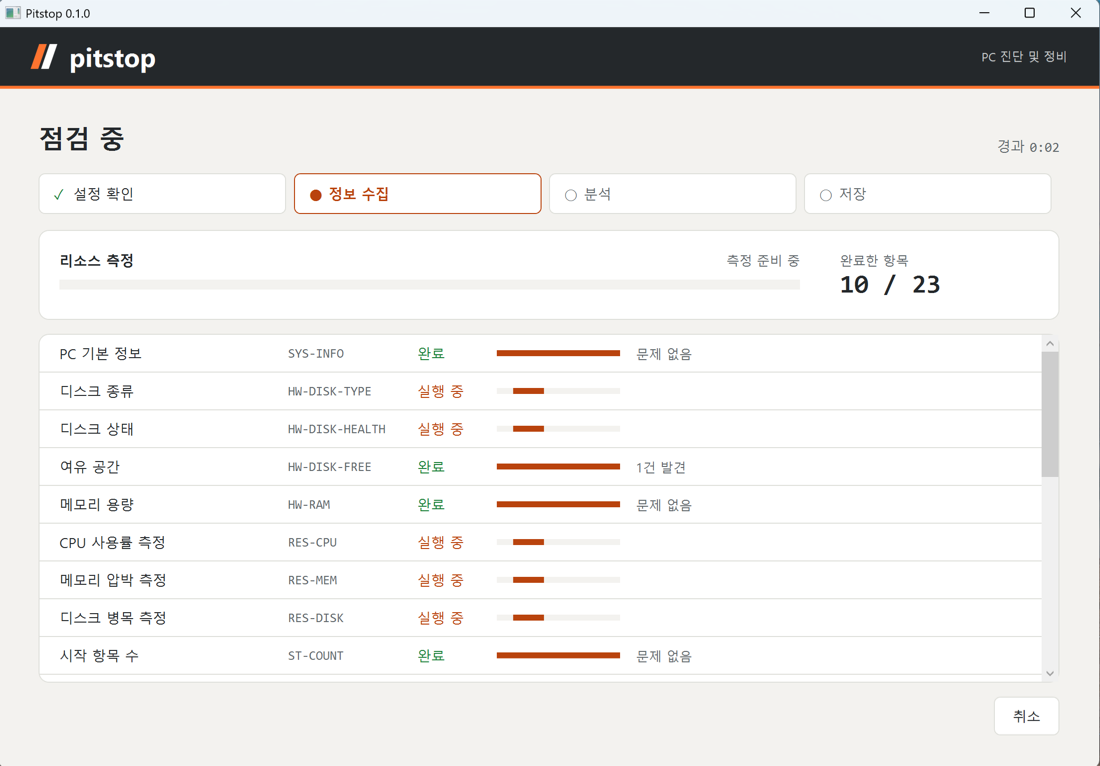
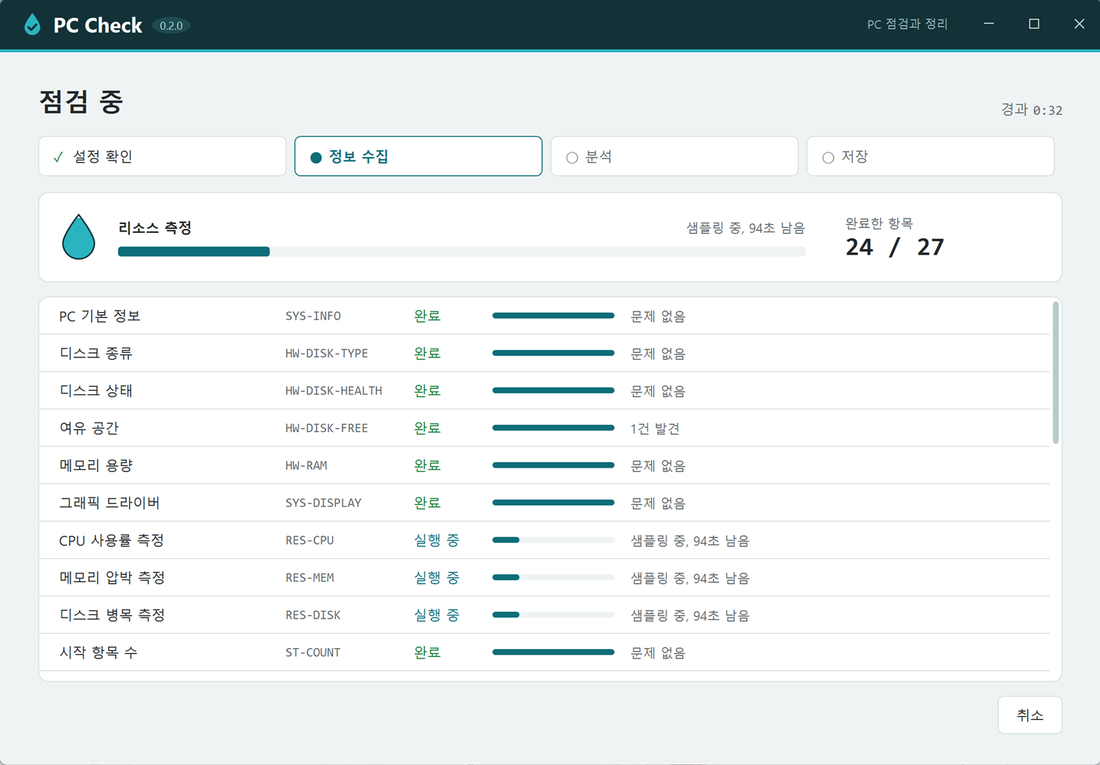
docs: 새 디자인 스크린샷과 브랜드 결정 반영

diff --git a/docs/handoff.md b/docs/handoff.md
@@ -8,6 +8,7 @@ Last updated 2026-11-09 by Claude Code. v0.1.3 is released (2026-11-07). The pro
 - GitHub repo `Bigide19/pitstop` -> `Bigide19/pc-check`: the README already points at the new name, so rename the repo (`gh repo rename pc-check`) together with merging this branch. Only on the user's order. GitHub redirects old repo URLs.
 - Local folder `~/Projects/pitstop` can be renamed after the session ends; `tools/vm/vm.sh` takes the VM share path from the folder name.
 - Scope: "PC에서 새는 곳을 찾습니다". Performance leaks (the 26 current checks), space leaks (unused-file cleanup, new), information leaks (personal-data cleanup ported from `Bigide19/windows-pc-privacy-cleaner`, net462 WPF, 46 files). Never claim data *was* leaked; say it remains or could leak.
+- Brand (2026-11-09, user picked option A of three): a teal water drop with a check (`DropGeometry` in `App.xaml`, `Views/LeakDrop.xaml`). The drop also shows state in three places only: it fills up while scanning (progress screen), shows the leak count with falling drips next to the verdict (healthy verdict = check), and turns into a plugged check after fixes. Severity stays color + text. The window uses `WindowChrome`, so the brand header is the title bar (caption buttons in `MainWindow.xaml`), and ScrollBar, TextBox, CheckBox, RadioButton, ProgressBar, ToolTip have implicit styles in `App.xaml`.
 - Stages: 1 rename (this branch) -> 2 three-leak layout with mock data -> 3 port the privacy cleaner (deletes go through `ISystemOps`) -> 4 unused-file cleanup. Show a plan before each stage.
 
 ## Stage status

diff --git a/README.md b/README.md
@@ -8,8 +8,8 @@
   <p>느려진 Windows PC를 포맷하기 전에, 정리로 충분한지부터 진단하는 도구</p>
 
   <p>
-    <a href="https://github.com/Bigide19/pc-check/releases/latest/download/pccheck-win-x64.zip"><img src="https://img.shields.io/badge/다운로드-pccheck--win--x64.zip-B9430D?style=for-the-badge&logo=windows&logoColor=white" alt="다운로드 (zip)" /></a>
-    <a href="https://github.com/Bigide19/pc-check/releases/latest/download/PcCheck.exe"><img src="https://img.shields.io/badge/exe만-PcCheck.exe-24282B?style=for-the-badge&logo=windows&logoColor=white" alt="다운로드 (exe)" /></a>
+    <a href="https://github.com/Bigide19/pc-check/releases/latest/download/pccheck-win-x64.zip"><img src="https://img.shields.io/badge/다운로드-pccheck--win--x64.zip-0E6E7A?style=for-the-badge&logo=windows&logoColor=white" alt="다운로드 (zip)" /></a>
+    <a href="https://github.com/Bigide19/pc-check/releases/latest/download/PcCheck.exe"><img src="https://img.shields.io/badge/exe만-PcCheck.exe-123238?style=for-the-badge&logo=windows&logoColor=white" alt="다운로드 (exe)" /></a>
   </p>
 
   <p>
